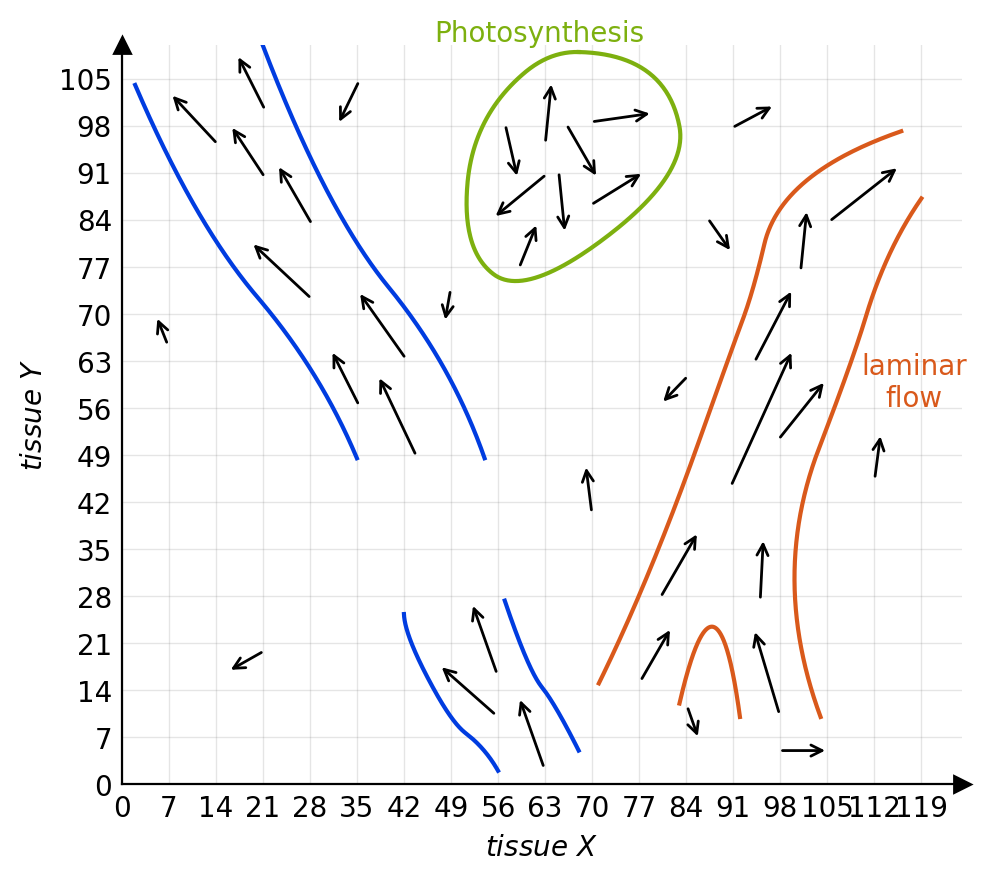
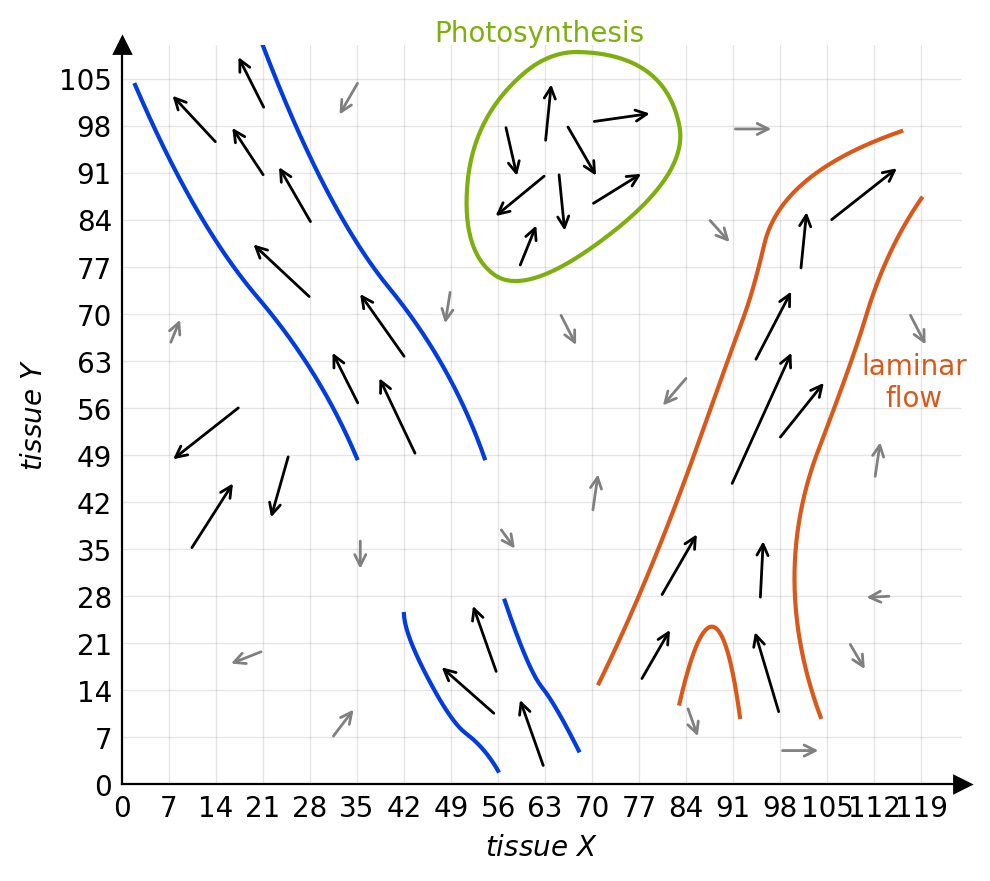
fig 1D: reworked noise

diff --git a/figures/figure_1d.py b/figures/figure_1d.py
@@ -4,6 +4,7 @@ from scipy.interpolate import make_interp_spline
 from sys import argv
 np.random.seed(2025)
 plt.rcParams.update({"figure.dpi": 200})
+RELEVANT_ARROW_SIZE = 7
 
 
 def main():
@@ -63,23 +64,36 @@ def plot_1d():
         def random_arrow(start_x, start_y, end_x, direction=1, length=None):
             if length is None:
                 min_length = max(5, abs(start_x - end_x))
-                length = np.random.uniform(min_length, 8)
+                length = np.random.uniform(min_length, RELEVANT_ARROW_SIZE)
 
             return arrow(start_x, start_y, end_x, direction, length=length)
+
+        high_impact = (
+            arrow(18, 56.5, 7, -1, length=14),
+            arrow(10, 34.5, 17, length=13),
+            arrow(25, 49.5, 22, -1, length=11),
+        )
         return (
-            random_arrow(7, 65, 5),
+            *high_impact,
+            random_arrow(7, 65, 9),
             random_arrow(112, 45, 113),
             random_arrow(90.5, 97.5, 97.5),
             random_arrow(21.5, 20, 15.5, -1),
-            random_arrow(35.5, 105, 32, -1, length=8),
-            random_arrow(70, 40, 69, length=8),
-            random_arrow(97.5, 5, 105.5),
+            random_arrow(35.5, 105, 32, -1, length=7),
+            random_arrow(35.5, 37, 35.5, -1),
+            random_arrow(70, 40, 71, length=7),
+            random_arrow(97.5, 5, 104.5),
             random_arrow(84, 12, 86, -1, length=6),
             random_arrow(49, 74, 48, -1),
             random_arrow(87, 84.5, 91, -1),
             random_arrow(84.5, 61, 80, -1),
+            random_arrow(31, 6.5, 35),
+            random_arrow(108, 21.5, 111, -1),
+            random_arrow(65, 70.5, 68, -1),
+            random_arrow(56, 38.5, 59, -1),
+            random_arrow(117, 70.5, 120, -1),
+            random_arrow(115, 28, 110, -1),
         )
-        return ()
 
     # first from left
     def left_blue(color="blue"):
@@ -239,7 +253,9 @@ def plot_1d():
         *merged("#D9591B")
     )
     for start, end in arrows:
-        ax.annotate("", xy=end, xytext=start, arrowprops=dict(arrowstyle='->'))
+        arrow_len = ((start[0] - end[0]) ** 2 + (start[1] - end[1]) ** 2) ** .5
+        color = "black" if arrow_len > RELEVANT_ARROW_SIZE else "gray"
+        ax.annotate("", xy=end, xytext=start, arrowprops=dict(arrowstyle='->', color=color))
 
 
 if __name__ == '__main__':